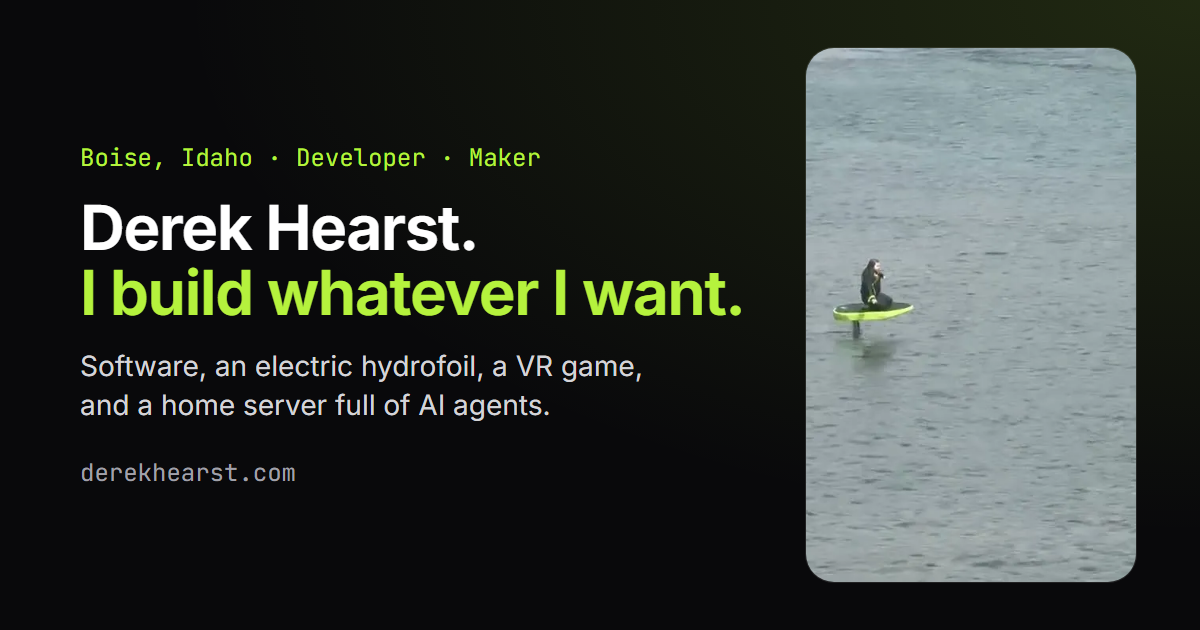
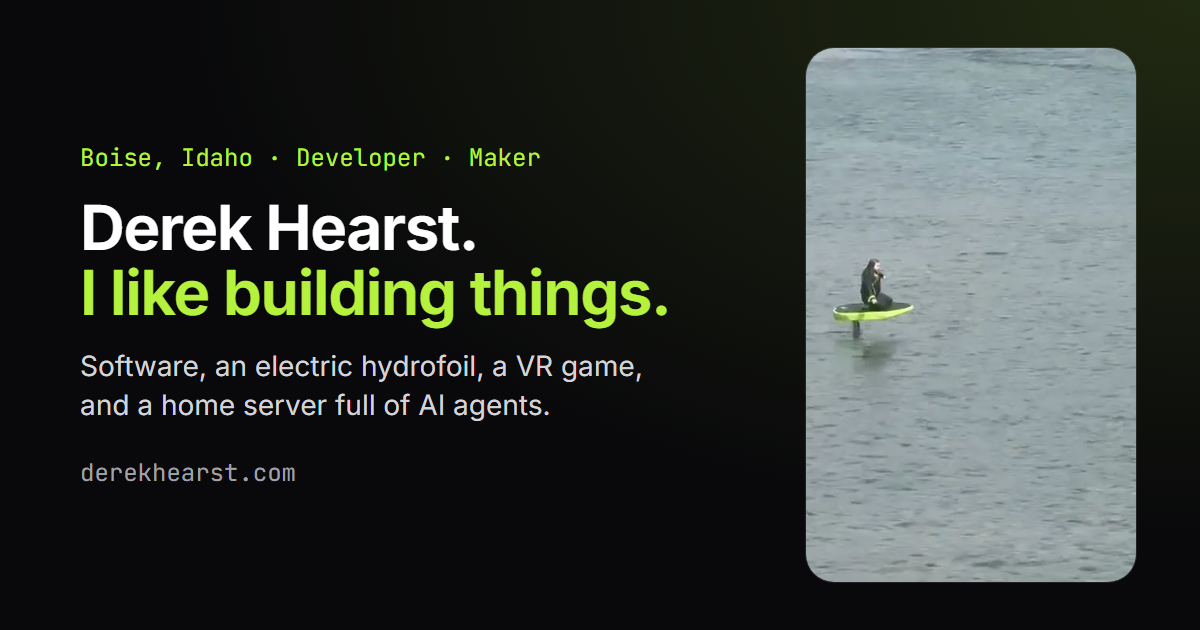
Soften the hero line to 'I like building things'

Changed region(s): [[0.0925, 0.4222, 0.6167, 0.5429]]

diff --git a/src/routes/+page.svelte b/src/routes/+page.svelte
@@ -65,9 +65,9 @@
 	<title>Derek Hearst</title>
 	<meta
 		name="description"
-		content="Derek Hearst is a developer and maker in Boise, Idaho who builds whatever he wants: software, an electric hydrofoil, a VR game and AI agents." />
+		content="Derek Hearst is a developer and maker in Boise, Idaho who likes building things: software, an electric hydrofoil, a VR game and AI agents." />
 	<meta property="og:title" content="Derek Hearst" />
-	<meta property="og:description" content="I build whatever I want: software, an electric hydrofoil, a VR game, and a home server full of AI agents." />
+	<meta property="og:description" content="I like building things: software, an electric hydrofoil, a VR game, and a home server full of AI agents." />
 	<meta property="og:image" content="https://derekhearst.com/og.png" />
 	<meta property="og:image:width" content="1200" />
 	<meta property="og:image:height" content="630" />
@@ -89,7 +89,7 @@
 					<Icon name="pin" class="size-4" />Boise, Idaho · Developer · Maker
 				</p>
 				<h1 class="text-4xl font-semibold tracking-tight text-balance text-white sm:text-6xl">
-					Hi, I’m Derek. <span class="block text-accent">I build whatever I want.</span>
+					Hi, I’m Derek. <span class="block text-accent">I like building things.</span>
 				</h1>
 				<p class="max-w-2xl text-xl text-pretty">
 					If I want something to exist, I figure out how to make it: software, an electric hydrofoil, a VR game, a home

diff --git a/scripts/og.html b/scripts/og.html
@@ -110,7 +110,7 @@
 		<div class="og">
 			<div class="text">
 				<div class="kicker">Boise, Idaho · Developer · Maker</div>
-				<h1>Derek Hearst.<br /><span>I build whatever I want.</span></h1>
+				<h1>Derek Hearst.<br /><span>I like building things.</span></h1>
 				<p>Software, an electric hydrofoil, a VR game, and a home server full of AI agents.</p>
 				<div class="url">derekhearst.com</div>
 			</div>

diff --git a/README.md b/README.md
@@ -1,7 +1,7 @@
 <h1 align=center>Hi, I'm Derek Hearst</h1>
-<h4 align=center>I build whatever I want · <a href="https://derekhearst.com">derekhearst.com</a></h4>
+<h4 align=center>I like building things · <a href="https://derekhearst.com">derekhearst.com</a></h4>
 
-I'm a developer and maker in Boise, Idaho. By day I'm the lead web developer at Brown & Root Industrial Services, building the internal apps a 10,000-person company runs on. The rest of the time I build whatever I want: a homebuilt electric hydrofoil, a co-op VR submarine game, and a home server full of AI agents.
+I'm a developer and maker in Boise, Idaho. By day I'm the lead web developer at Brown & Root Industrial Services, building the internal apps a 10,000-person company runs on. The rest of the time I build my own projects: a homebuilt electric hydrofoil, a co-op VR submarine game, and a home server full of AI agents.
 
 #### What I'm building
 
